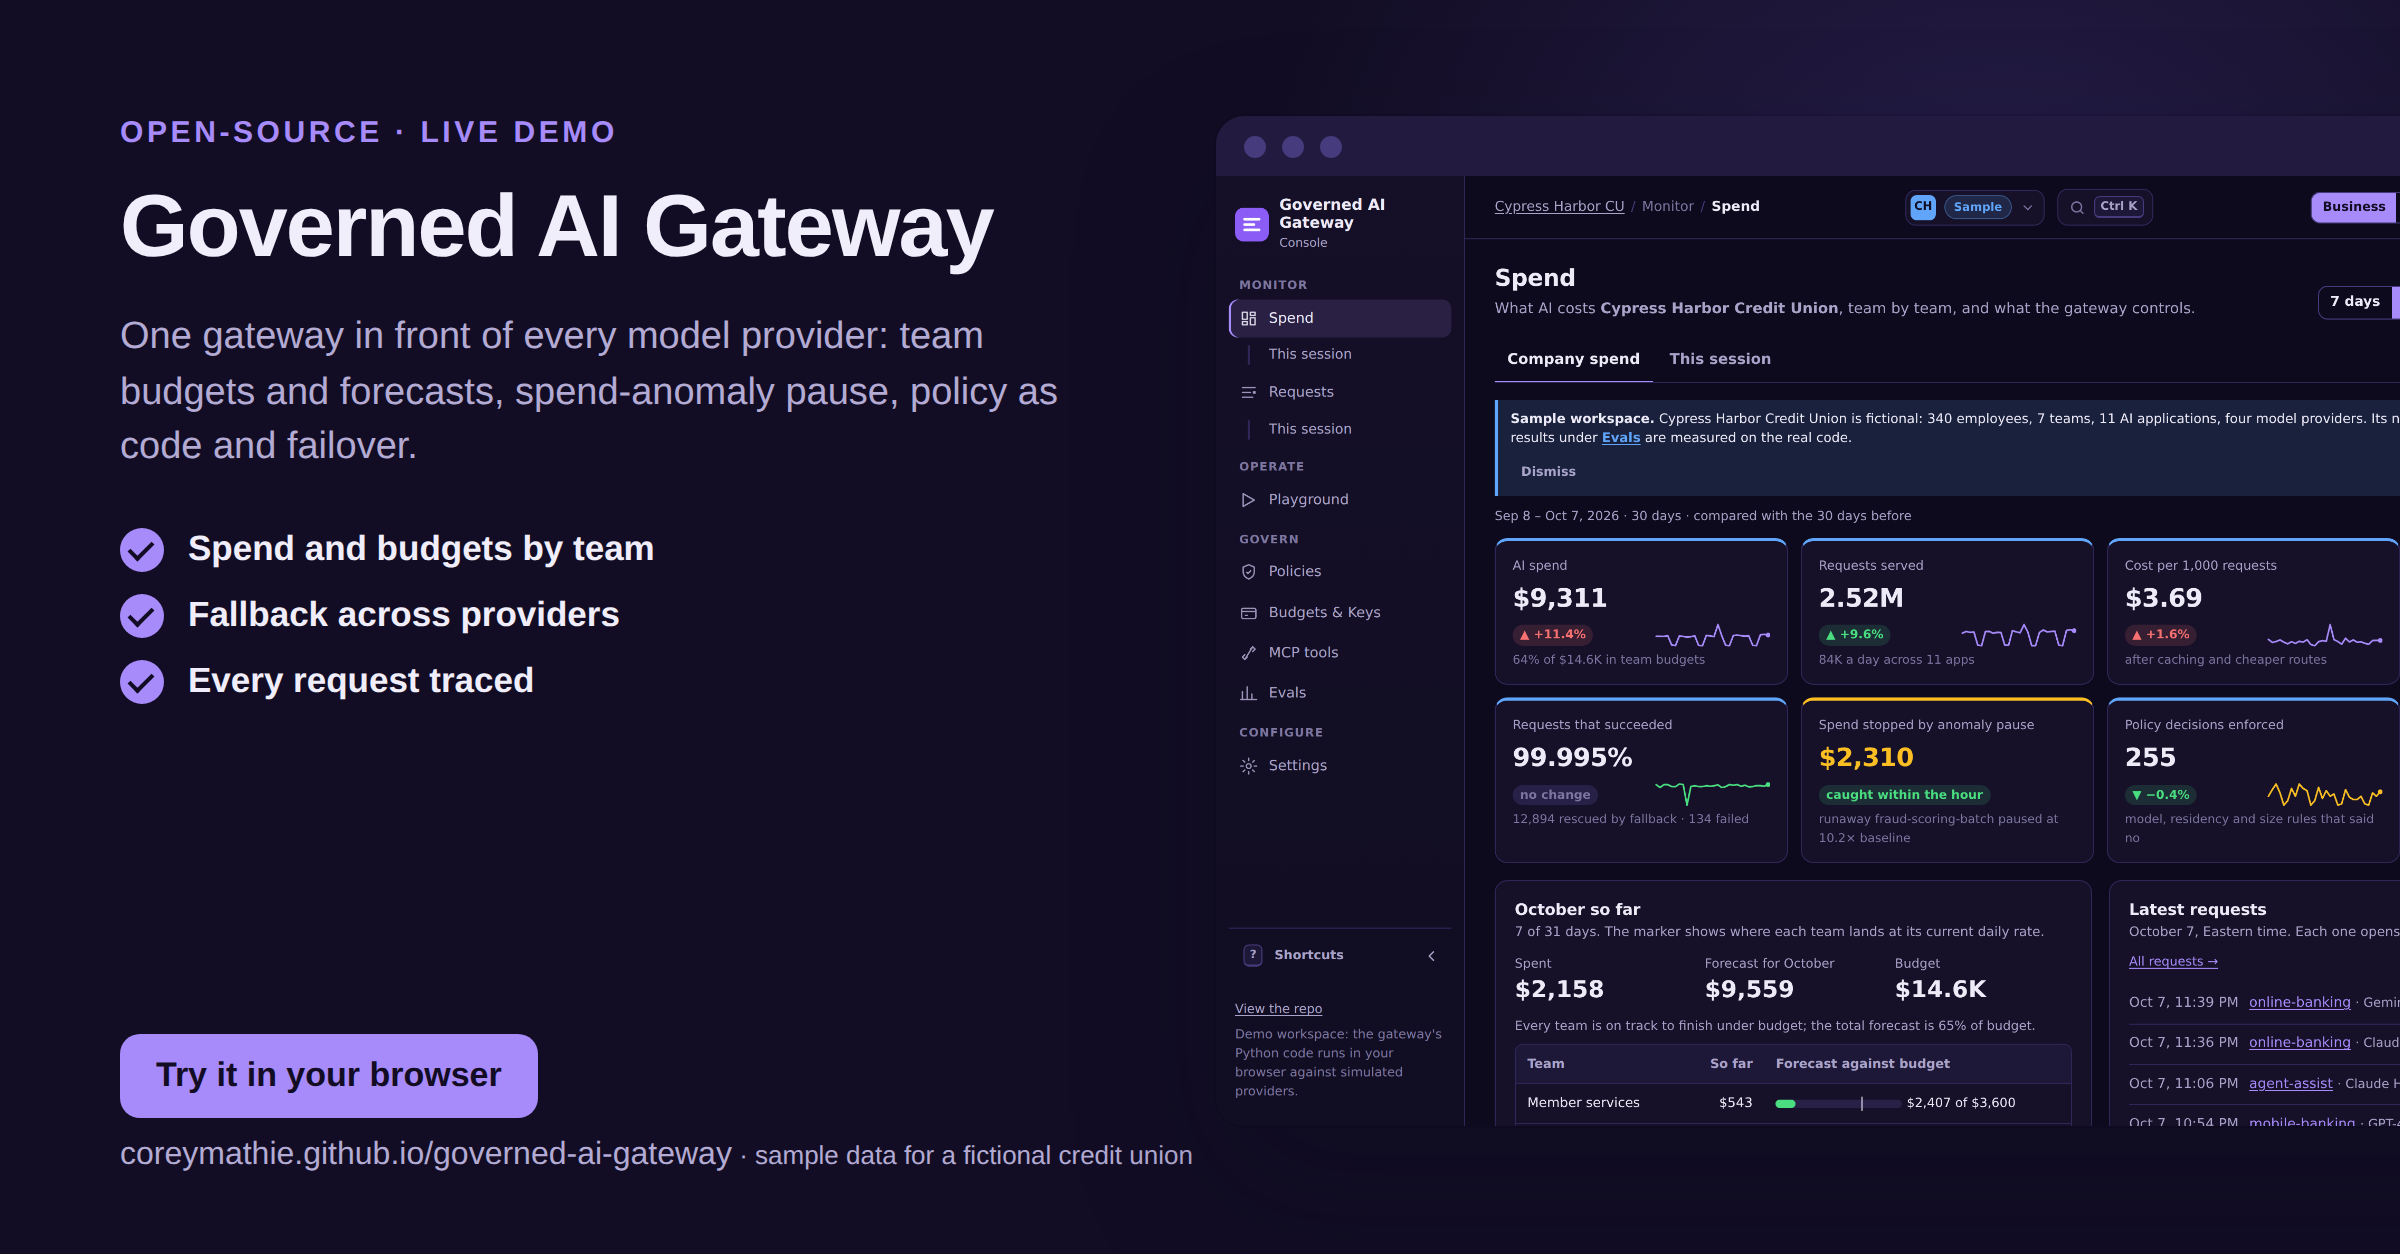
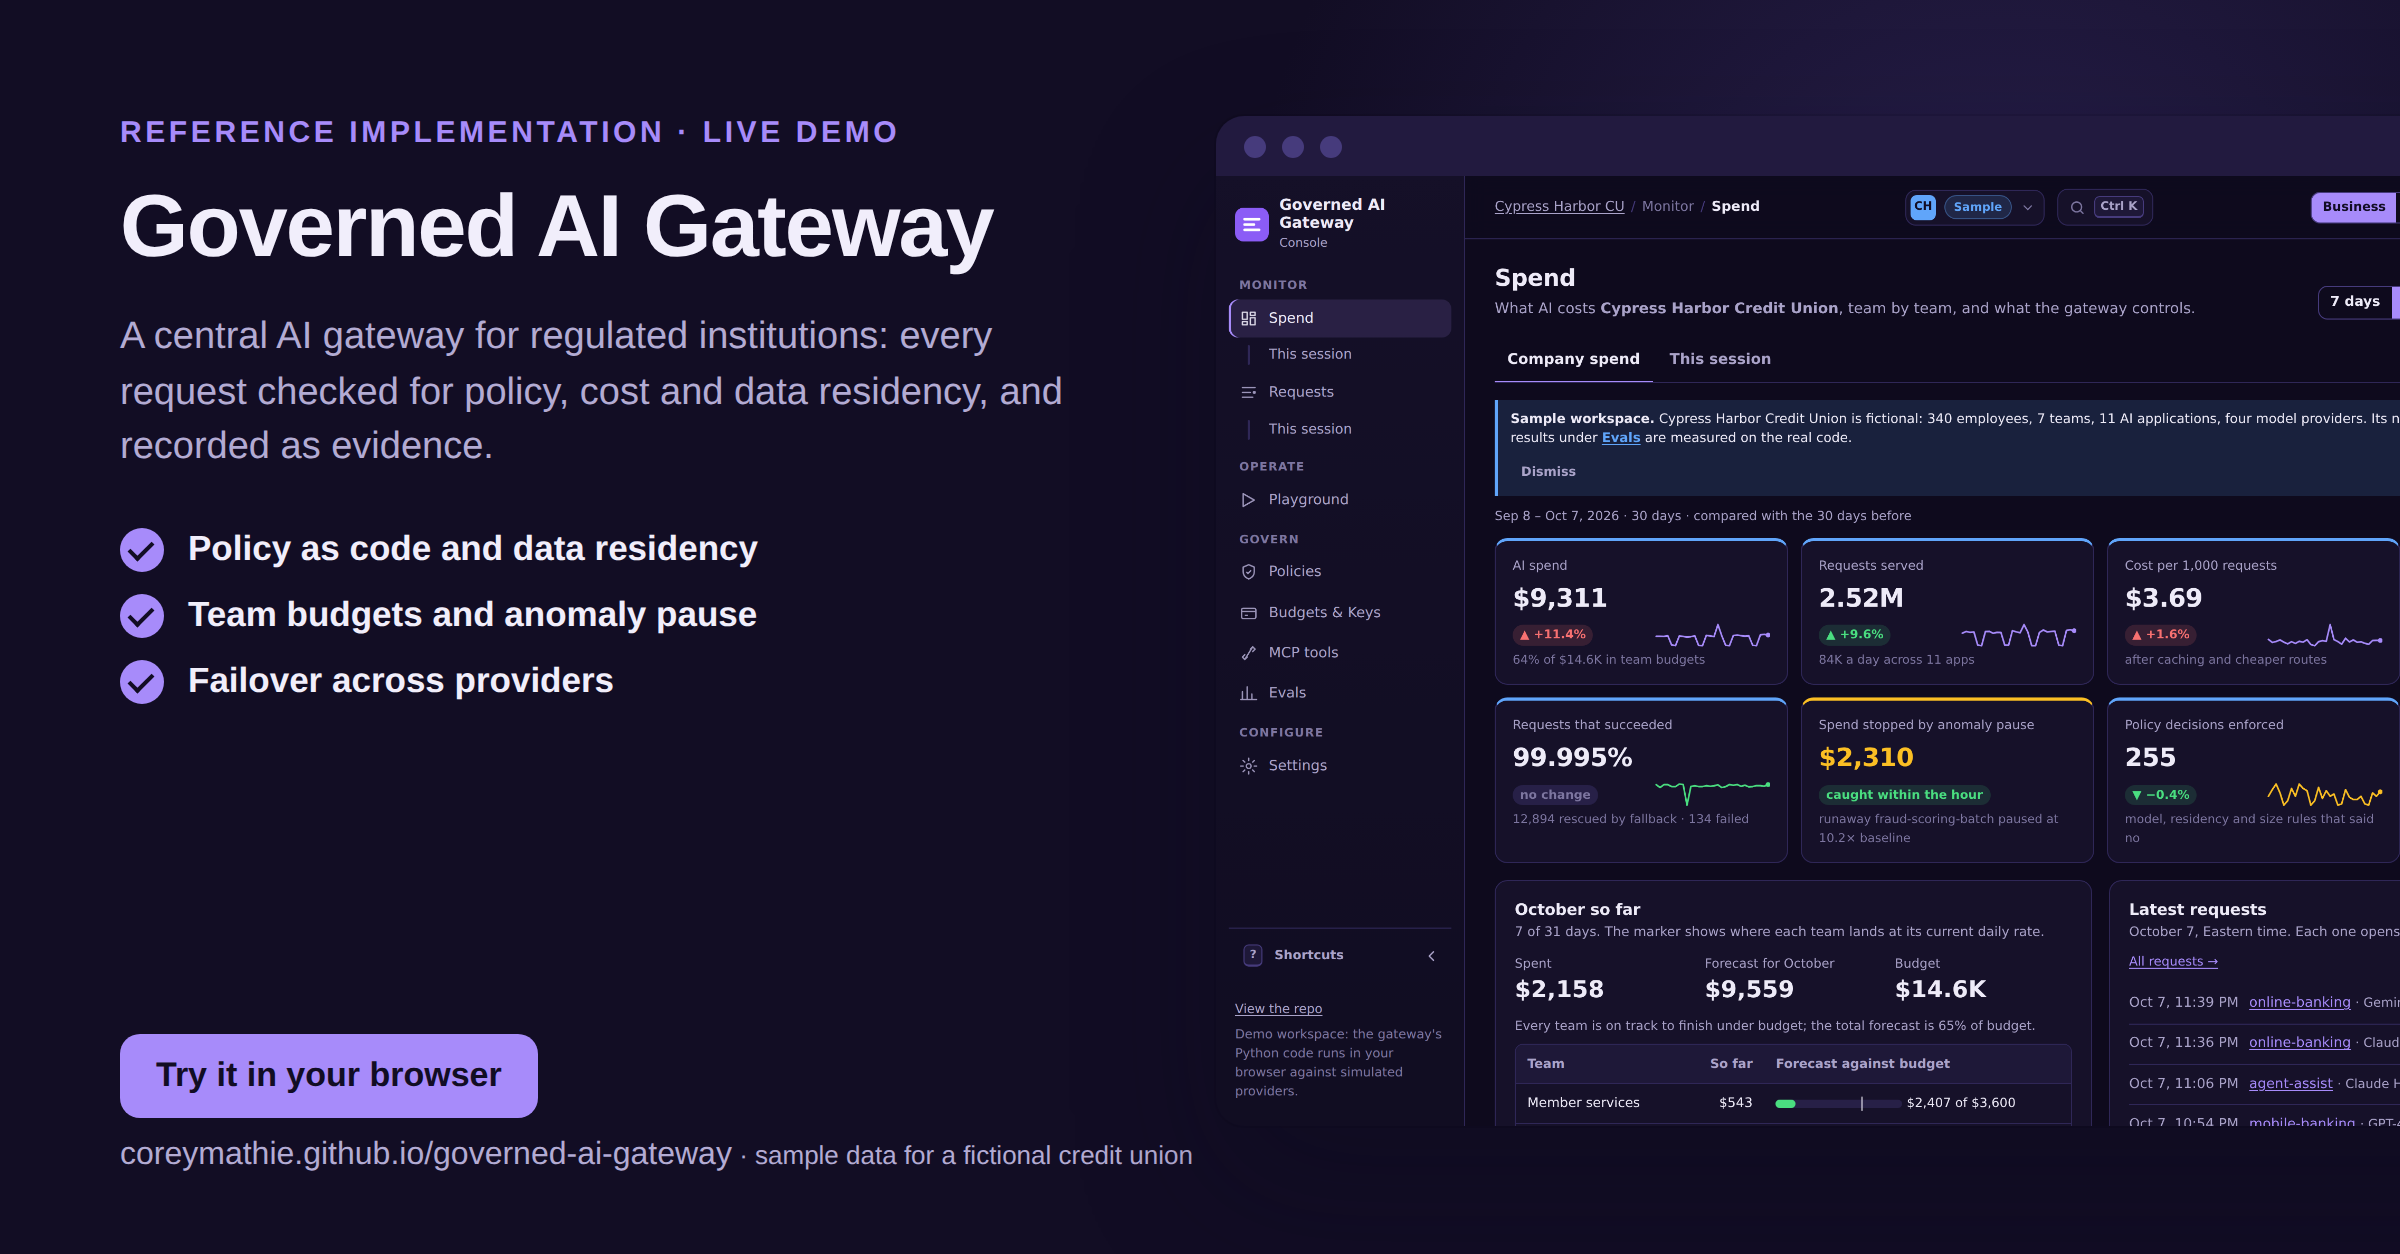
README at-a-glance summary; link-preview card and text aligned with the reference-architecture positioning
The executive summary becomes an at-a-glance table (problem, architecture, key decisions, controls,
evidence, out of scope, live demo), carried over from the superseded readme-architecture branch.
The LinkedIn link-preview card and its Open Graph title and description now use the same positioning.

diff --git a/demo/index.html b/demo/index.html
@@ -9,8 +9,8 @@
 <!-- Link previews (LinkedIn, Slack, X): demo/social-card.png -->
 <meta property="og:type" content="website" />
 <meta property="og:site_name" content="Corey Mathie · open-source projects" />
-<meta property="og:title" content="Governed AI Gateway: budgets, policy and failover for every model provider" />
-<meta property="og:description" content="One gateway in front of every model provider: team budgets and forecasts, spend-anomaly pause, policy as code and failover. Live demo runs in your browser." />
+<meta property="og:title" content="Governed AI Gateway: a central AI gateway for regulated institutions" />
+<meta property="og:description" content="Reference implementation: every model request checked for policy, cost and data residency, routed with failover, and recorded as evidence. Live demo runs in the browser." />
 <meta property="og:url" content="https://coreymathie.github.io/governed-ai-gateway/demo/" />
 <meta property="og:image" content="https://coreymathie.github.io/governed-ai-gateway/demo/social-card.png" />
 <meta property="og:image:width" content="2400" />

diff --git a/README.md b/README.md
@@ -6,13 +6,17 @@
 
 **A reference implementation of a central AI gateway for regulated financial institutions: one OpenAI-compatible endpoint that decides, per request, who may call which model, where the data may go, what it may cost and what happens when a provider fails, and records each decision as evidence.**
 
-## Executive summary
+## At a glance
 
-- **Business problem.** Once several teams call model APIs directly, spend is unbounded and unattributed, a provider outage propagates into every application, and no one can say per request what a call cost, where it went or why. A regulated institution also needs data residency for sensitive workloads and evidence of who changed which control.
-- **Architectural approach.** A single gateway is the platform control point between client applications and four providers (OpenAI, Anthropic, Gemini, on-prem Ollama), and between agents and MCP tool servers. Every request passes the same admission pipeline before any provider sees the prompt, then an ordered fallback chain guarded by per-deployment circuit breakers, with opt-in latency-aware routing.
-- **Key controls.** Policy as code (YAML, optional OPA) for model allow/deny lists, data residency and request limits; PII redaction hooks with content logging off by default; a hash-chained audit trail of policy decisions and administrative changes, plus a decision trace for every request; an org → team → key budget hierarchy, tokens-per-minute limits, showback/chargeback and spend-anomaly detection modelled on card-fraud velocity checks; an MCP tool gateway with default-deny allow-lists.
-- **Evidence.** 290 tests (289 passed, 1 skipped) run offline; a 157-check browser smoke test covers every console screen in both modes (113 demo, 44 live). The semantic cache ships disabled because its **measured** false-hit rate on held-out pairs is 9.1% (1 of 11 hits; 95% upper bound 37.7%) against a 1% target. A route-eval gate fails a routing change that lowers quality or raises cost beyond set limits (**simulated** providers).
-- **Out of scope.** Content-level guardrails (prompt-injection classification, output filtering), SSO for administrators, state shared across gateway instances, TLS termination, and any evaluation against real models.
+| | |
+|---|---|
+| **Problem** | Teams calling LLM APIs directly produce spend no one can bound or attribute, outages that propagate to every app, and model and tool calls with no policy or audit trail. |
+| **Architecture** | One enforcement and accounting point: auth → policy → budgets → anomaly → content hooks → cache → TPM → fallback chain with circuit breakers → settle. An MCP tool gateway applies the same governance to agent tool calls. |
+| **Key decisions** | LiteLLM for wire formats, control plane in dependency-free modules; ordered fallback with per-deployment breakers; anomalies judged against each key's own baseline; semantic cache off until calibrated; MCP default deny. Recorded in [6 ADRs](#key-decisions-and-trade-offs). |
+| **Controls** | Org → team → key budgets, TPM/RPM limits, spend-anomaly pause, policy-as-code (YAML, optional OPA) with data residency, PII redaction hooks, hash-chained audit trail, showback. [Mapped to](docs/controls.md) NIST AI RMF / AI 600-1 and FinOps capabilities. |
+| **Evidence** | 290 tests, a 157-check headless-browser smoke test of the console, 6 ADRs, a [threat model](docs/threat-model.md). Route evals use a deterministic simulation, not real-model measurements. |
+| **Out of scope** | Content-level guardrails (prompt-injection classification, output filtering), SSO for administrators, state shared across gateway instances, TLS termination, and any evaluation against real models. |
+| **Try it** | [Live console](https://coreymathie.github.io/governed-ai-gateway/demo/): this repo's `router/*.py` modules running in the browser against simulated providers. Or `docker compose up`. |
 
 ## Live demo
 
